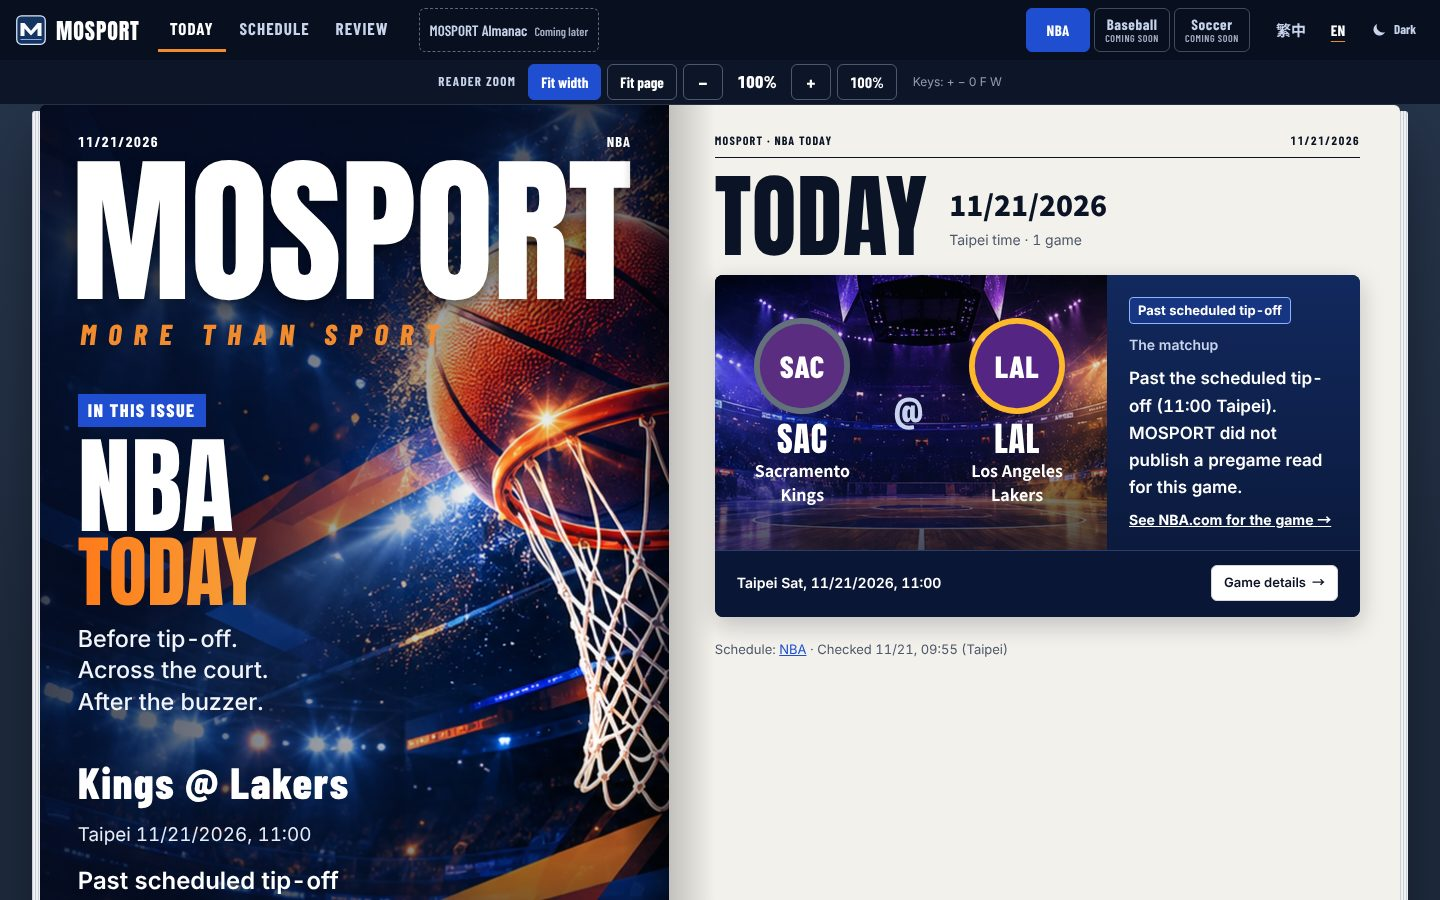
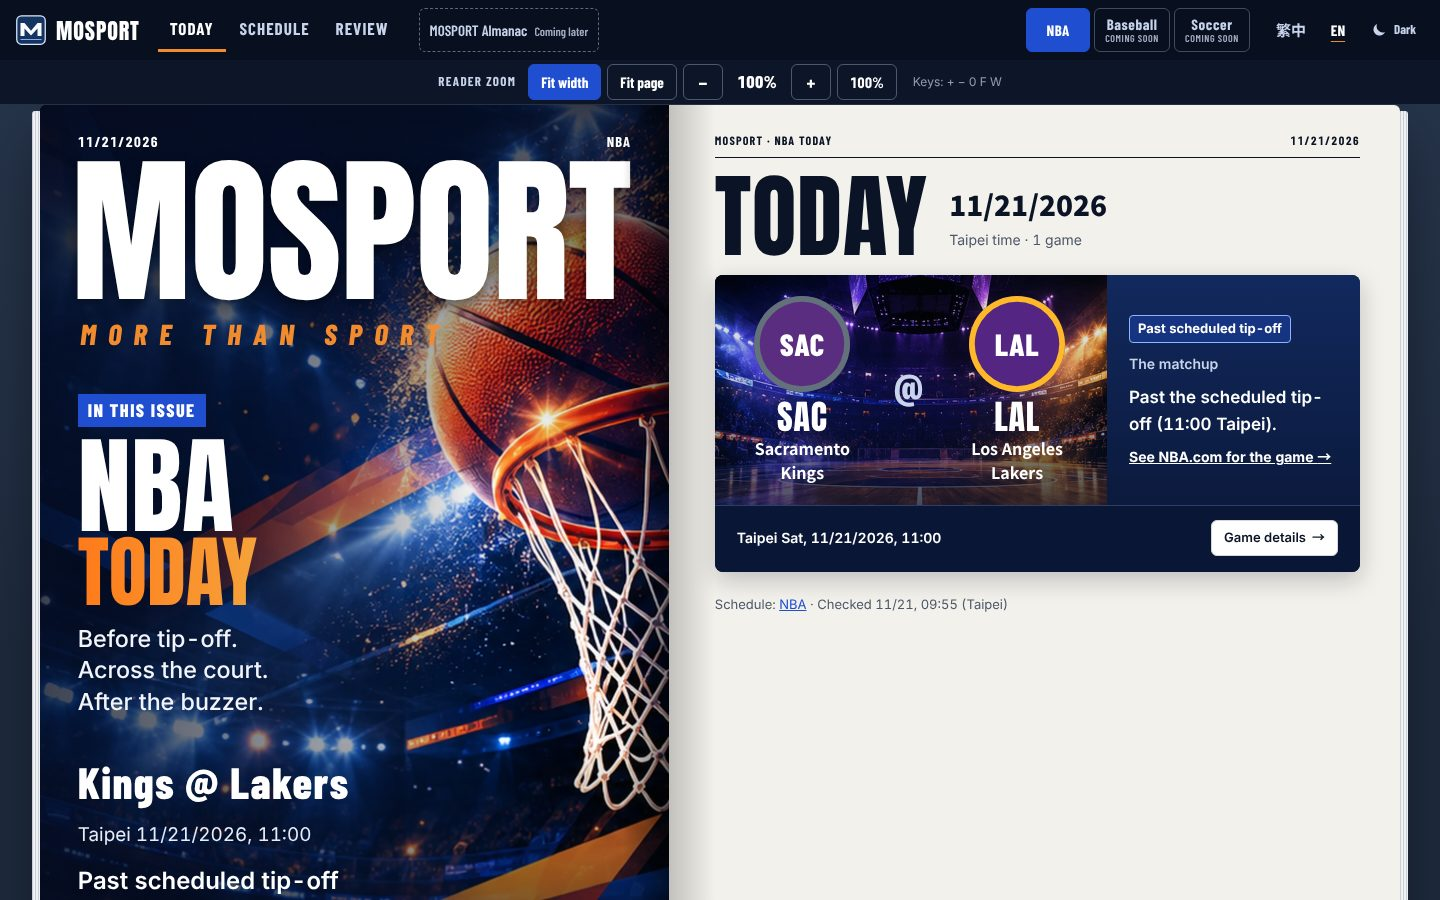
One past-tipoff notice: scheduled time plus the official game link
Founder L1 copy decision (PR #25 comment 7057198075): after tipoff the
reader sees only "已過原定開賽時間（台北 HH:MM）。查看 NBA 官方賽況 →" /
"Past the scheduled tip-off (HH:MM Taipei). See NBA.com for the game →"
on Home, Schedule and Match. No published/unpublished narration; qualified
content still renders itself. Tests assert the new copy and the absence of
publication-status narration; spec, report and screenshots updated.

Claude-Session: https://claude.ai/code/session_01HmHaALcJbrjBqWb45m6ekk

Changed region(s): [[0.4688, 0.3111, 0.9688, 0.7467]]

diff --git a/tests/unit/schedule-context.test.js b/tests/unit/schedule-context.test.js
@@ -223,22 +223,27 @@ test('templates escape projected source labels and snapshot IDs; missing and unk
   }
 });
 
-test('after the scheduled tipoff Schedule and Match say so and whether a read was published', () => {
+const ZH_NOTICE = '已過原定開賽時間（台北 11:00）。';
+const NARRATION = /未發布|曾發布|已在開賽前發布|不再更新|did not publish|was published|not updated after/;
+test('after the scheduled tipoff Schedule and Match show the scheduled time and the official link only', () => {
   const tip = schedule.game.tipoff;
   for (const page of ['schedule', 'match']) {
     const zh = renderPage(schedule, page, '?schedule=0022600051&game=0022600051&mode=production&lang=zh', null, { now: tip });
-    assert.ok(zh.includes('已過原定開賽時間（台北 11:00）。MOSPORT 未發布本場賽前判讀。'), page);
+    assert.ok(zh.includes('已過原定開賽時間（台北 11:00）。'), page);
     assert.ok(zh.includes('查看 NBA 官方賽況') && zh.includes('href="https://www.nba.com/game/sac-vs-lal-0022600051"'), page);
     assert.ok(!/先前的賽程|還沒出來|未開賽|進行中|終場|已不適用/.test(zh.replace(/<[^>]*>/g, '')), page);
     const en = renderPage(schedule, page, '?schedule=0022600051&game=0022600051&mode=production&lang=en', null, { now: tip });
-    assert.ok(en.includes('Past the scheduled tip-off (11:00 Taipei). MOSPORT did not publish a pregame read for this game.'), page);
+    assert.ok(en.includes('Past the scheduled tip-off (11:00 Taipei).'), page);
     assert.ok(en.includes('See NBA.com for the game') && !/not out yet|earlier schedule|Live|Final/.test(en.replace(/<[^>]*>/g, '')), page);
+    for (const html of [zh, en]) assert.ok(!NARRATION.test(html.replace(/<[^>]*>/g, '')), page);
   }
   const projection = PL.contextSnapshotView(candidate.contextSnapshot);
+  // Qualified content shows itself with the same notice; no published/unpublished narration.
   const published = renderPage(schedule, 'match', '?schedule=0022600051&game=0022600051&mode=production&lang=zh', projection, { now: tip });
-  assert.ok(published.includes('本場賽前判讀已在開賽前發布，開賽後不再更新。') && !published.includes('MOSPORT 未發布'));
+  assert.ok(published.includes(ZH_NOTICE) && published.includes(projection.snapshotId) && published.includes('HOME_COURT@1'));
   const publishedEn = renderPage(schedule, 'schedule', '?schedule=0022600051&mode=production&lang=en', projection, { now: tip });
-  assert.ok(publishedEn.includes('The pregame read was published before tip-off and is not updated after it.'));
+  assert.ok(publishedEn.includes('Past the scheduled tip-off (11:00 Taipei).') && publishedEn.includes(projection.snapshotId));
+  for (const html of [published, publishedEn]) assert.ok(!NARRATION.test(html.replace(/<[^>]*>/g, '')));
 });
 
 test('factual rematch passes source/identity checks and remains separate from any World read', () => {

diff --git a/tests/e2e/schedule-context.js b/tests/e2e/schedule-context.js
@@ -171,7 +171,7 @@ const noNumbers = text => !/\d+(?:\.\d+)?\s*%|DEMO|HOME_COURT|World · Coach Rea
       ['missing source', r => { delete r.source; }, '暫時無法閱讀'],
       ['wrong ID', r => { r.game.gameId = '0022600999'; }, '暫時打不開'],
       ['stale source', r => { r.validUntil = '2026-11-21T02:30:00Z'; }, '先前的賽程'],
-      ['past tipoff', () => {}, '已過原定開賽時間（台北 11:00）。MOSPORT 未發布本場賽前判讀。'],
+      ['past tipoff', () => {}, '已過原定開賽時間（台北 11:00）。'],
       ['boolean is not release', r => { r.contextSnapshot = { public: true }; }, '這場的賽前判讀還沒出來。']
     ]) {
       const raw = JSON.parse(JSON.stringify(saved)); mutate(raw);
@@ -196,7 +196,7 @@ const noNumbers = text => !/\d+(?:\.\d+)?\s*%|DEMO|HOME_COURT|World · Coach Rea
       assert.ok(before.includes('13 分之差，國王盃賽再戰湖人') && before.includes('103：116') && !before.includes('已過原定開賽時間'), 'before tipoff'); checks++;
       await open.clock.runFor(6 * 60 * 1000);
       const after = await open.locator('.spread').innerText();
-      assert.ok(after.includes('已過原定開賽時間（台北 11:00）。MOSPORT 未發布本場賽前判讀。') && after.includes('查看 NBA 官方賽況'), 'after tipoff: ' + after); checks++;
+      assert.ok(after.includes('已過原定開賽時間（台北 11:00）。') && after.includes('查看 NBA 官方賽況'), 'after tipoff: ' + after); checks++;
       assert.ok(!after.includes('13 分之差') && !after.includes('103：116') && !after.includes('先前的賽程'), 'editorial withdrawn without reload'); checks++;
       assert.equal(loads, 1, 'no reload or refetch'); checks++;
       assert.deepEqual(pageErrors, []); checks++;
@@ -221,7 +221,7 @@ const noNumbers = text => !/\d+(?:\.\d+)?\s*%|DEMO|HOME_COURT|World · Coach Rea
       const straddle = await browser.newContext({ viewport: { width: 1440, height: 900 } });
       const early = JSON.parse(JSON.stringify(saved)); early.validUntil = '2026-11-21T02:30:00Z';
       for (const [label, raw, boundary, expected, gone] of [
-        ['valid until tipoff', saved, saved.game.tipoff, '已過原定開賽時間（台北 11:00）。MOSPORT 未發布本場賽前判讀。', '先前的賽程'],
+        ['valid until tipoff', saved, saved.game.tipoff, '已過原定開賽時間（台北 11:00）。', '先前的賽程'],
         ['expired before tipoff', early, early.validUntil, '先前的賽程', '已過原定開賽時間']
       ]) {
         const p = await straddle.newPage();

diff --git a/site/js/i18n.js b/site/js/i18n.js
@@ -54,8 +54,7 @@ window.MOSPORT_I18N = {
     state_scheduleOnly: '先看對戰與開賽時間。賽前判讀還沒出來。',
     state_scheduleStale: '以下是先前的賽程，開賽時間可能有變動。賽前判讀還沒出來。',
     pastTipoffLabel: '已過原定開賽時間',
-    pastTipoffNone: '已過原定開賽時間（台北 {time}）。MOSPORT 未發布本場賽前判讀。',
-    pastTipoffPublished: '已過原定開賽時間（台北 {time}）。本場賽前判讀已在開賽前發布，開賽後不再更新。',
+    pastTipoffNotice: '已過原定開賽時間（台北 {time}）。',
     officialGame: '查看 NBA 官方賽況',
     readOpen: '查看判讀', readNone: '尚未發布',
     reviewTitle: '檢討', reviewIntro: '回看賽前判讀，對照終場結果。哪些看準了，哪些值得重想。',
@@ -121,8 +120,7 @@ window.MOSPORT_I18N = {
     state_scheduleOnly: 'The matchup and tip-off time are here. The pregame read is not out yet.',
     state_scheduleStale: 'This is an earlier schedule. Tip-off times may have changed. The pregame read is not out yet.',
     pastTipoffLabel: 'Past scheduled tip-off',
-    pastTipoffNone: 'Past the scheduled tip-off ({time} Taipei). MOSPORT did not publish a pregame read for this game.',
-    pastTipoffPublished: 'Past the scheduled tip-off ({time} Taipei). The pregame read was published before tip-off and is not updated after it.',
+    pastTipoffNotice: 'Past the scheduled tip-off ({time} Taipei).',
     officialGame: 'See NBA.com for the game',
     readOpen: 'Open the read', readNone: 'Not published',
     reviewTitle: 'Review', reviewIntro: 'The pregame read meets the final score. What held up, and what deserves another look.',

diff --git a/tests/unit/home-spread.test.js b/tests/unit/home-spread.test.js
@@ -219,11 +219,11 @@ test('official NBA Cup rematch headline reaches the real default homepage after 
   assert.ok(stale.includes('先前的賽程') && !stale.includes('13 分之差'));
   const tipped = home(schedule, '', null, { mode: 'production', now: schedule.game.tipoff, realTeams: true });
   assertSpread(tipped);
-  assert.ok(tipped.includes('已過原定開賽時間（台北 11:00）。MOSPORT 未發布本場賽前判讀。') && tipped.includes('查看 NBA 官方賽況'));
+  assert.ok(tipped.includes('已過原定開賽時間（台北 11:00）。') && tipped.includes('查看 NBA 官方賽況'));
   assert.ok(tipped.includes('class="cv-status">已過原定開賽時間<') && tipped.includes('比賽資訊'));
-  assert.ok(!/13 分之差|先前的賽程|還沒出來|未開賽|state-stale/.test(tipped));
+  assert.ok(!/13 分之差|先前的賽程|還沒出來|未開賽|state-stale|未發布|曾發布|不再更新/.test(tipped));
   const tippedEn = home(schedule, '?lang=en', null, { mode: 'production', now: schedule.game.tipoff, realTeams: true });
-  assert.ok(tippedEn.includes('Past the scheduled tip-off (11:00 Taipei). MOSPORT did not publish a pregame read for this game.') && tippedEn.includes('See NBA.com for the game'));
+  assert.ok(tippedEn.includes('Past the scheduled tip-off (11:00 Taipei).') && tippedEn.includes('See NBA.com for the game'));
   const withoutEditorial = clone(schedule); delete withoutEditorial.editorial;
   const missing = home(withoutEditorial, '', null, { mode: 'production', now: clock, realTeams: true });
   assert.ok(missing.includes('賽前看點') && missing.includes('這場的賽前判讀還沒出來。'));

diff --git a/site/js/app.js b/site/js/app.js
@@ -66,11 +66,12 @@
     return '<p class="pv">' + esc(T('dataSource')) + ' <a href="' + esc(source.url) + '" rel="noopener noreferrer">' + esc(source.publisher) + '</a> · ' + esc(T('observedAt')) + ' <time datetime="' + esc(source.observedAt) + '">' + esc(source.observedAt) + '</time></p>';
   }
   /* After the scheduled tip-off the clock is the only evidence: say the scheduled time
-     has passed and whether a pregame read was published; never claim LIVE or a score. */
+     has passed and link the official game page; never claim LIVE or a score, and never
+     narrate whether a read was published (qualified content shows itself). */
   function tipoffNotice(g) {
     var time = fmt(g.tipoff, 'Asia/Taipei', { hour: '2-digit', minute: '2-digit' });
     var link = g.source && g.source.url ? ' <a class="tipoff-link" href="' + esc(g.source.url) + '" rel="noopener noreferrer">' + esc(T('officialGame')) + ' <span aria-hidden="true">→</span></a>' : '';
-    return '<p class="pregame-missing tipoff-note">' + esc(T(g.pregameSnapshot ? 'pastTipoffPublished' : 'pastTipoffNone', { time: time })) + link + '</p>';
+    return '<p class="pregame-missing tipoff-note">' + esc(T('pastTipoffNotice', { time: time })) + link + '</p>';
   }
   function statusLabel(g) {
     if (g.pastTipoff) return T('pastTipoffLabel');

diff --git a/docs/P2_CONTRACT_COMPATIBILITY.md b/docs/P2_CONTRACT_COMPATIBILITY.md
@@ -15,9 +15,9 @@
   已過期的保存賽程仍不顯示。
 - **開著的頁面：**reader 保留已載入的資料，在下一個時間邊界（導讀可見時間、`validUntil`、`tipoff`）
   以同一條 pipeline 重新計算並重繪；不重新抓取、不 reload。DEMO 使用固定時鐘，不重算。
-- **讀者文案：**未發布判讀：「已過原定開賽時間（台北 HH:MM）。MOSPORT 未發布本場賽前判讀。」；
-  已發布：「…本場賽前判讀已在開賽前發布，開賽後不再更新。」；兩者附「查看 NBA 官方賽況 →」
-  （連到已核實的 NBA 官方 game URL）。英文版同步。
+- **讀者文案（Founder L1，2026-11-21）：**首頁、賽程、比賽頁共用一條：「已過原定開賽時間（台北 HH:MM）。
+  查看 NBA 官方賽況 →」（連到已核實的 NBA 官方 game URL）；英文「Past the scheduled tip-off (HH:MM Taipei).
+  See NBA.com for the game →」。不說明判讀曾發布或未發布；已有合格可公開的內容，就照既有流程直接呈現內容。
 - **導讀獨立：**`editorial` 的形狀與事實改由 `validateScheduleEditorial` 檢查；任何問題只撤下
   導讀（diagnostics 記 `slot: editorial`），已核實的賽程照常顯示。`editorial` 不是物件仍屬整筆格式錯誤。
   因此只更新賽程收據、未重核導讀時，賽程保留、導讀撤下，不再整場消失。
